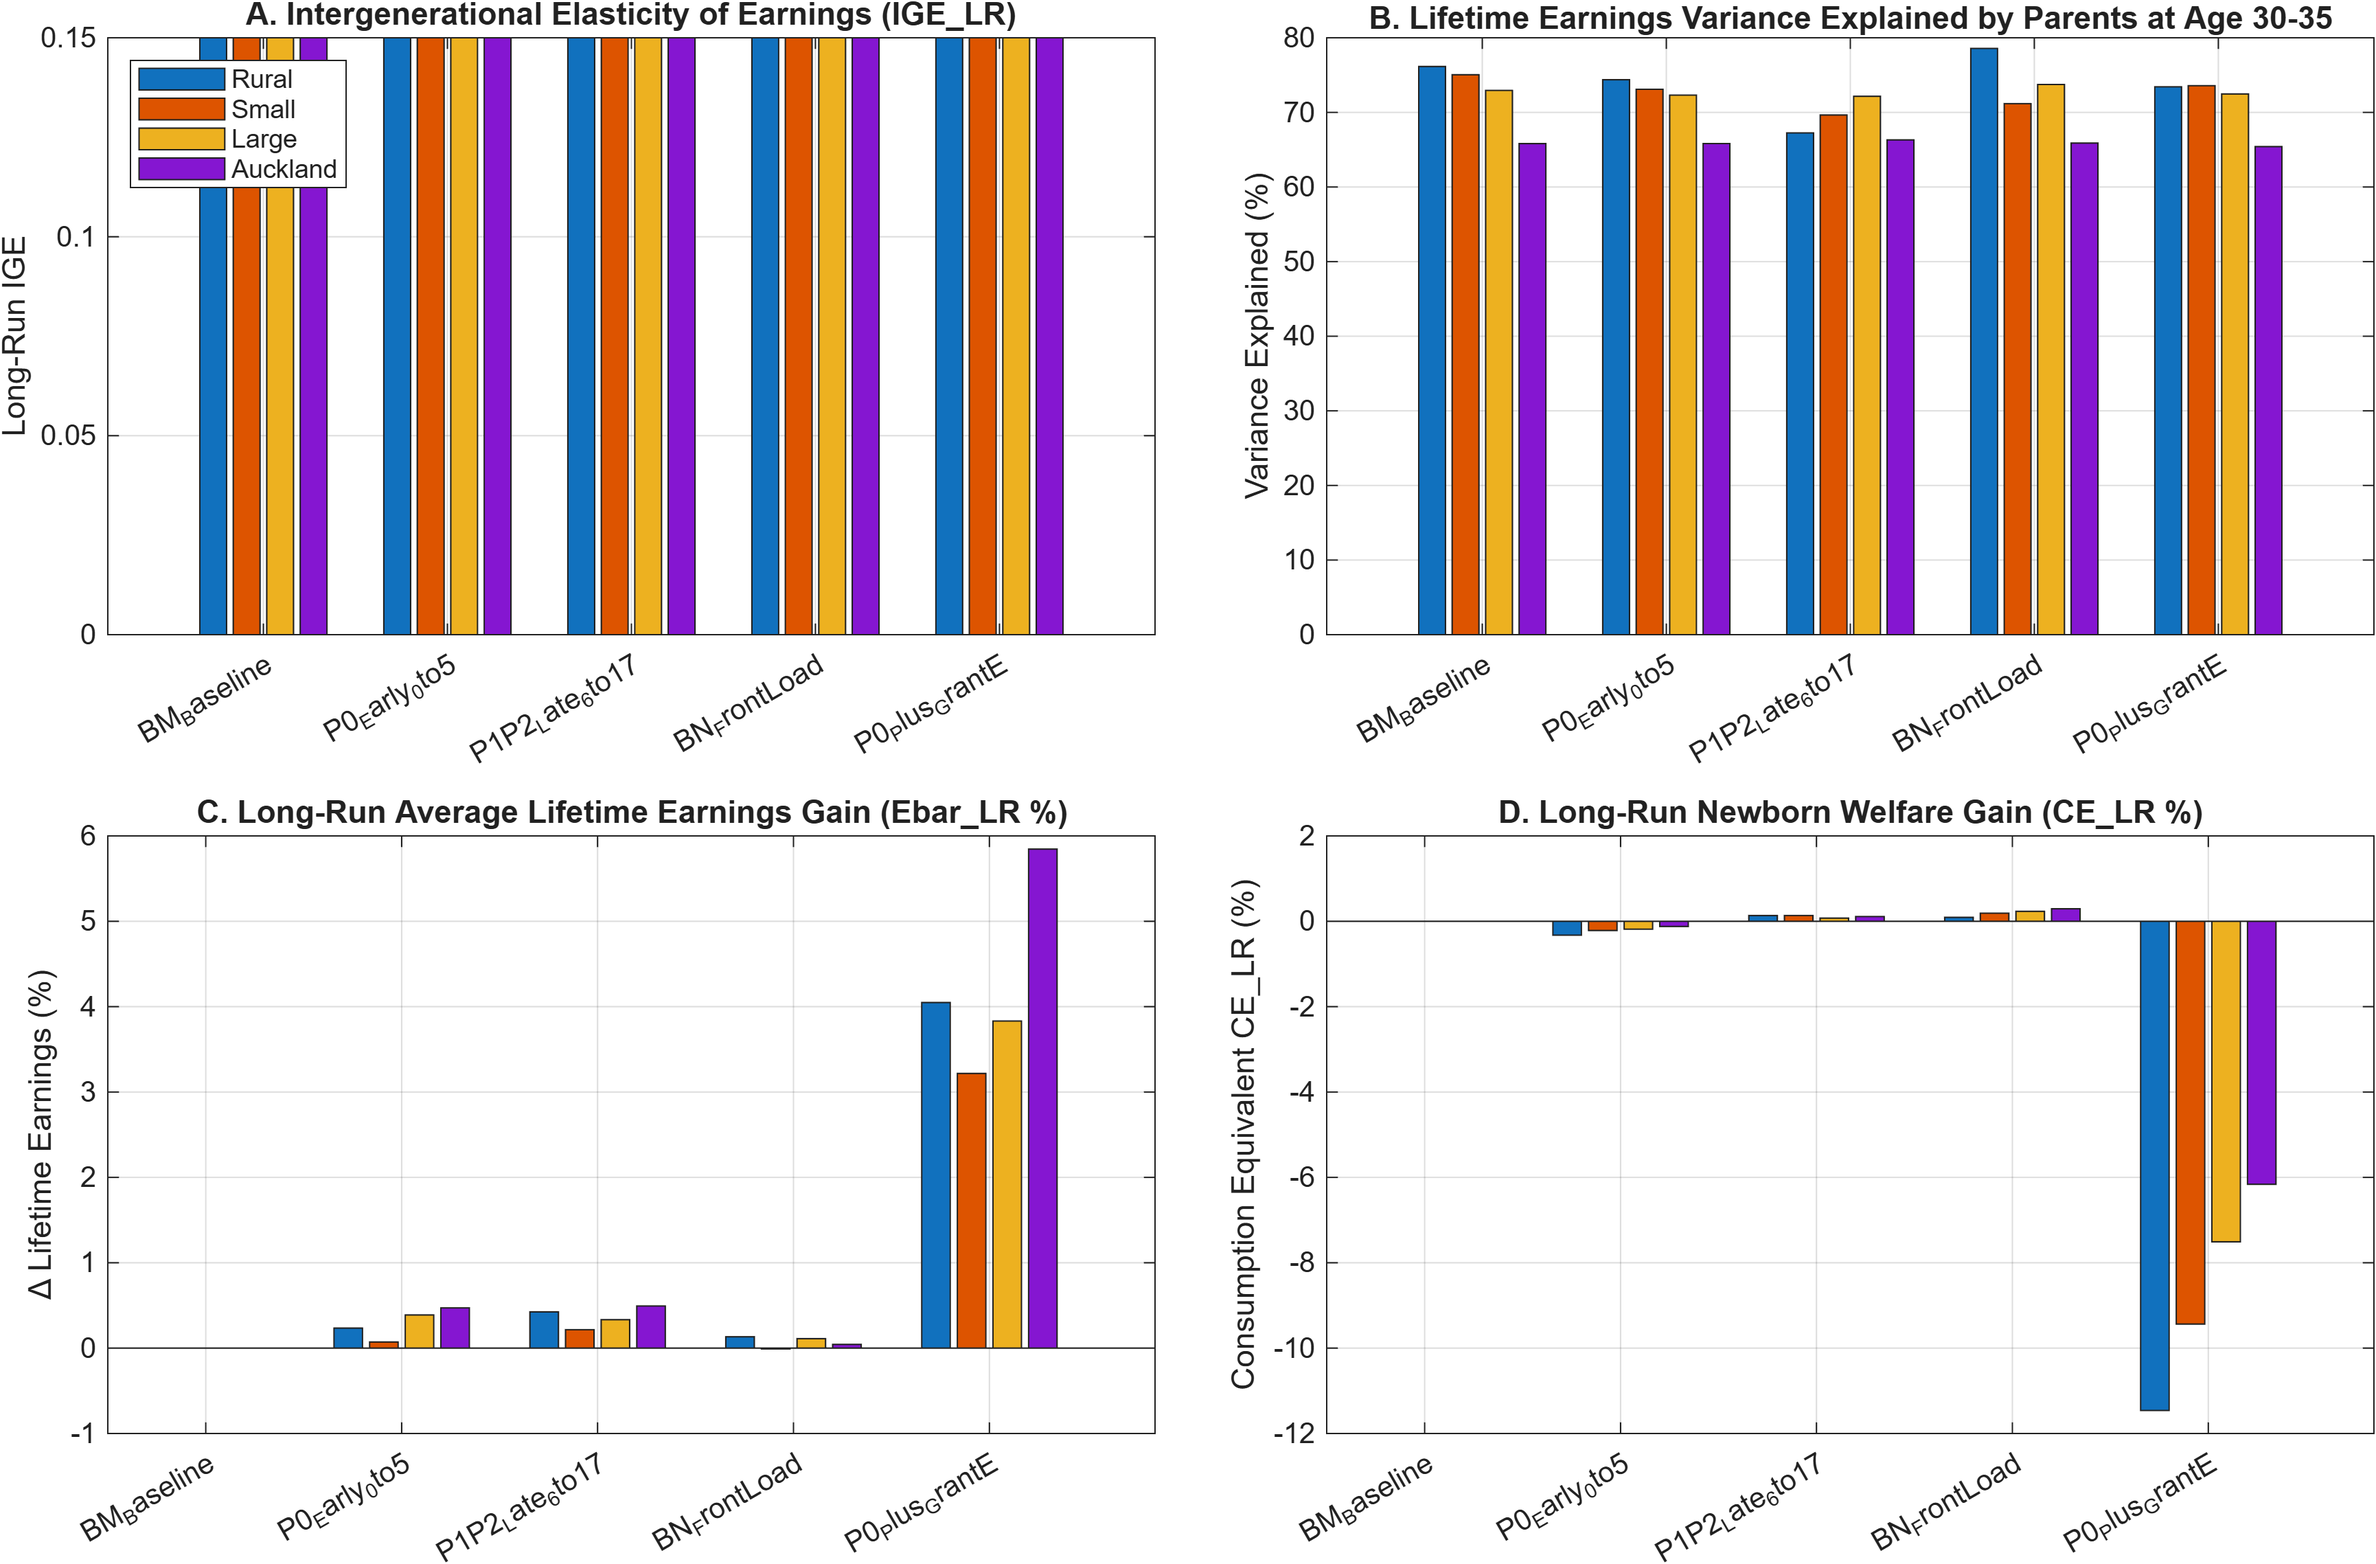
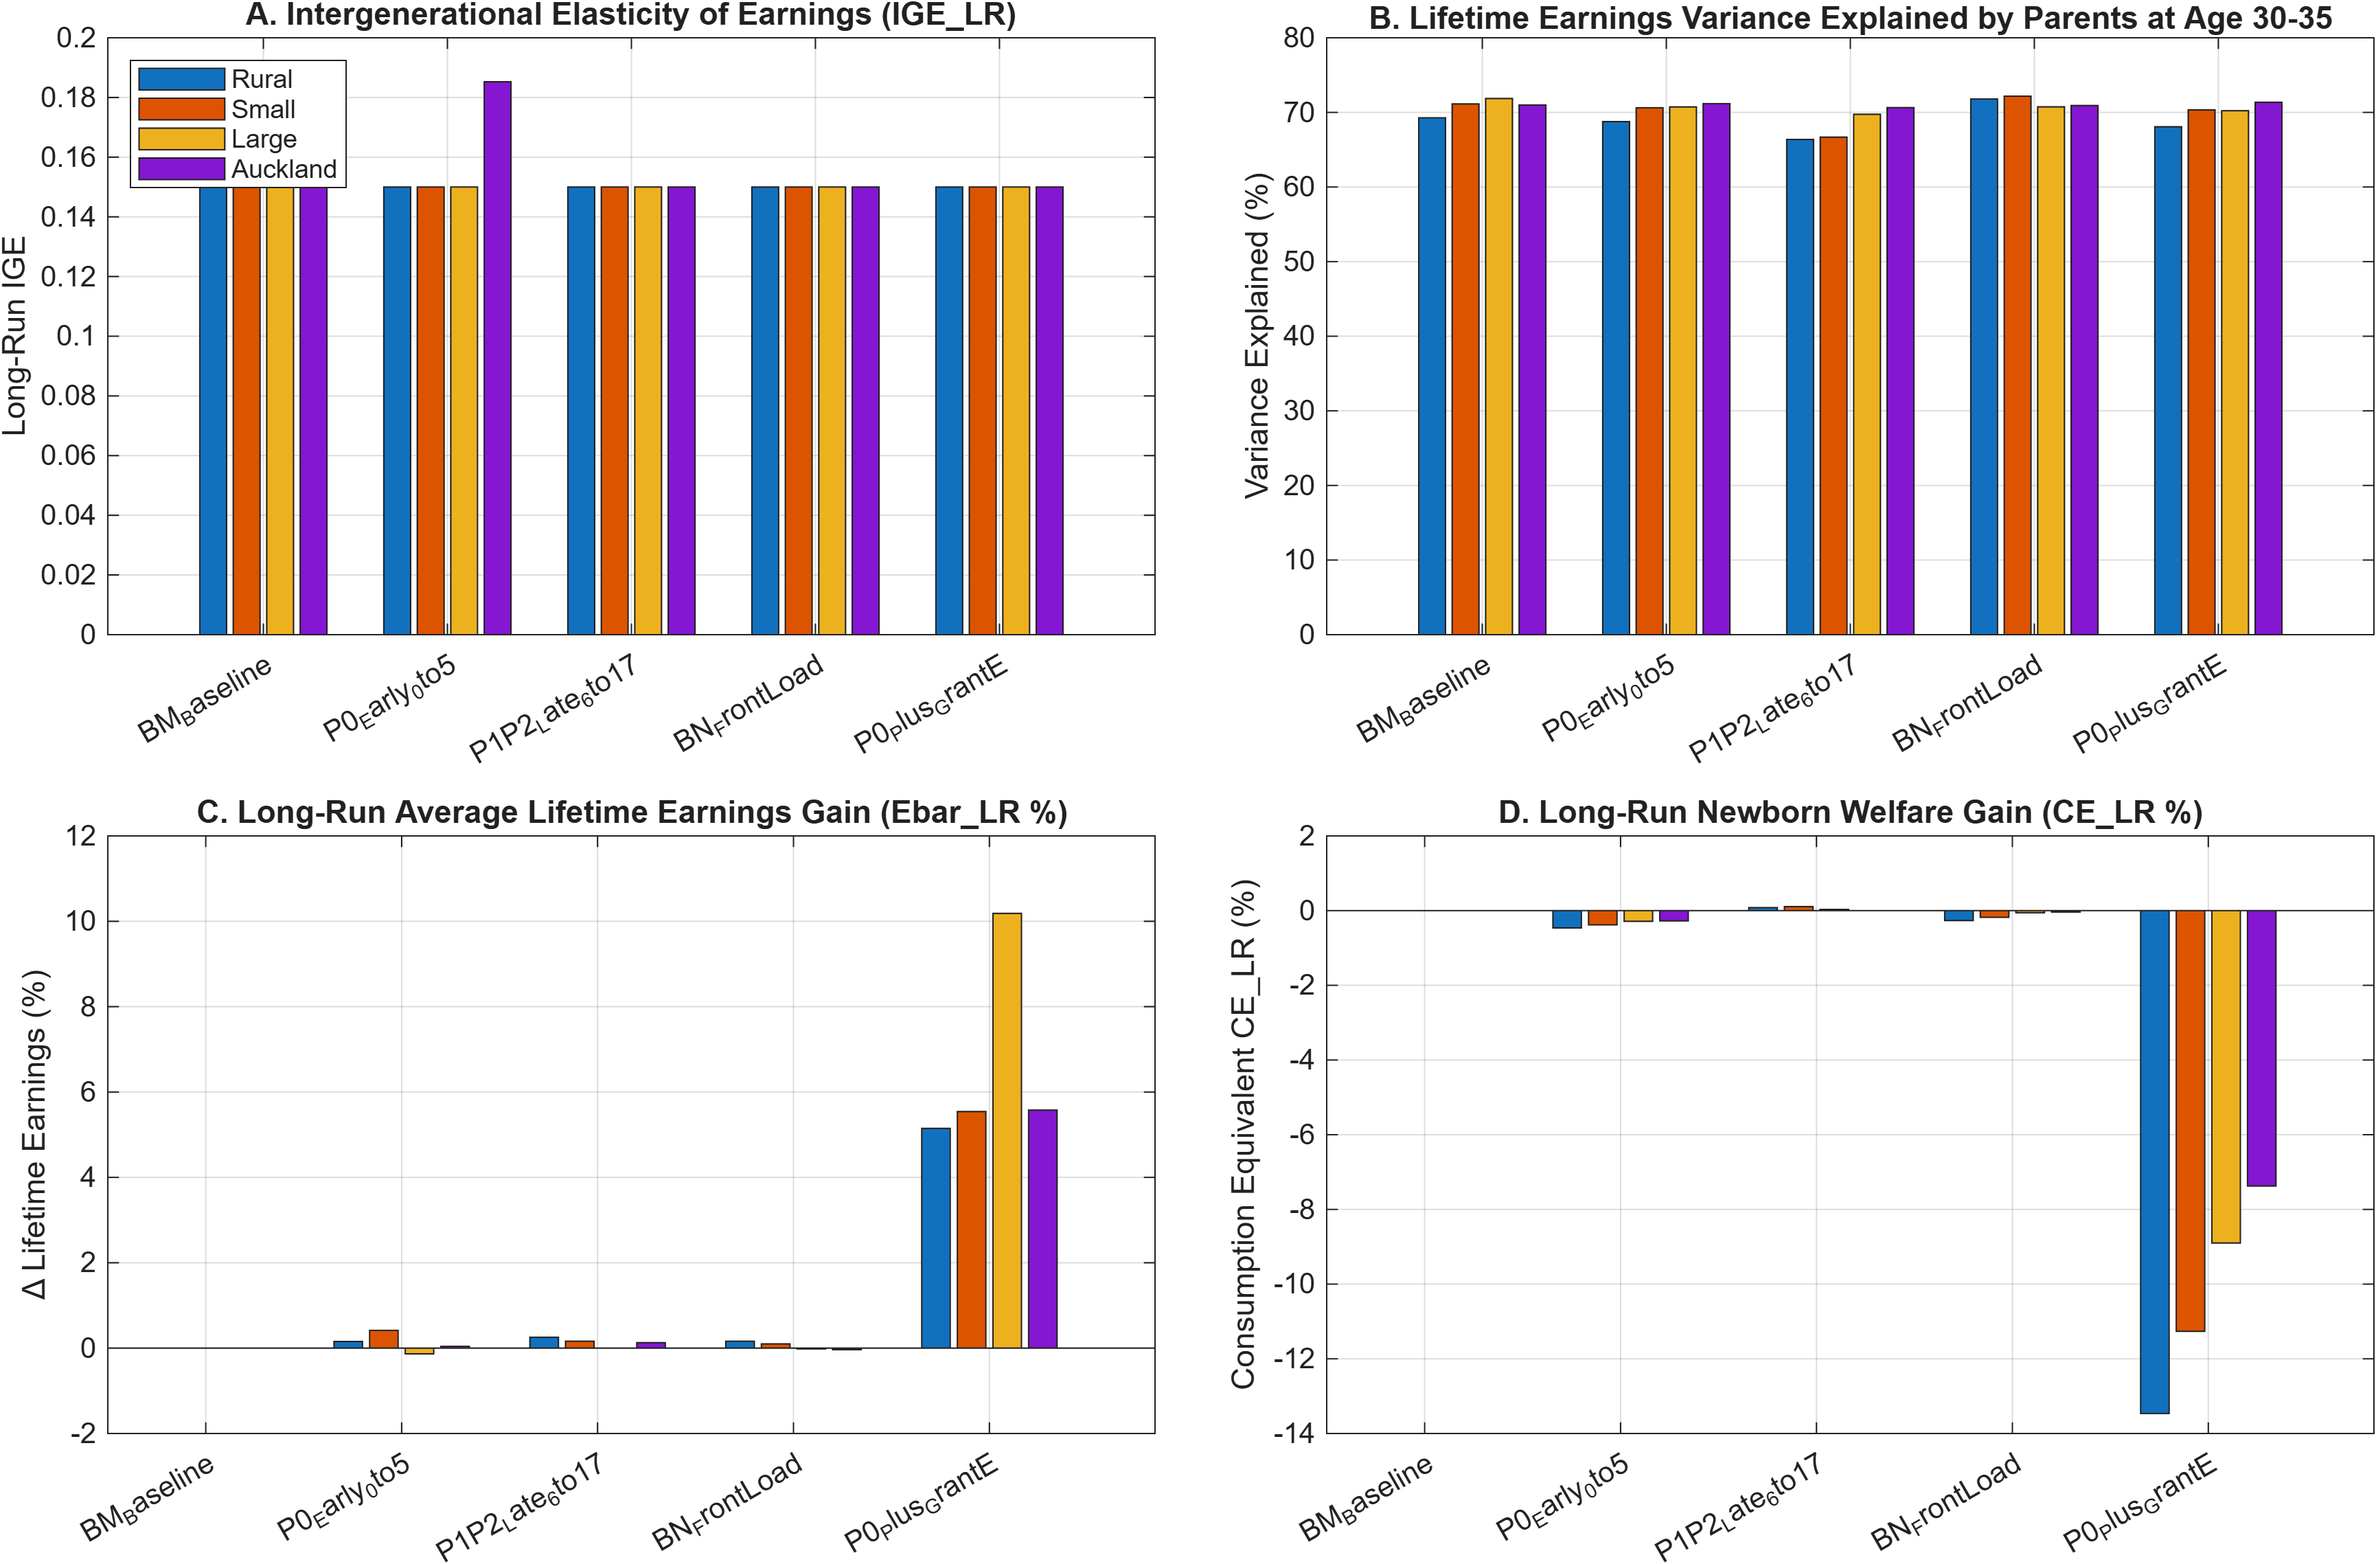
WIP test dt=3

diff --git a/ReturnFn_SpatialHH.m b/ReturnFn_SpatialHH.m
@@ -12,16 +12,17 @@ F = -Inf;
 scale_dt = dt / 5;
 
 %% 1. FULL-LIFECYCLE ADULT BEN-PORATH HUMAN CAPITAL LAW OF MOTION (h -> hprime)
+tol_hc = max(0.11, 0.16 * scale_dt);
 if agej < Jr
     if l == 0 && Ih > 0
         return;
     end
     if l > 0
-        h_expected = (1 - delta_hc) * h + scale_dt * (Ih ^ alpha_I) * (h ^ alpha_H);
+        h_expected = (1 - delta_hc) * h + 0.14 * scale_dt * (Ih ^ alpha_I) * (h ^ alpha_H);
     else
         h_expected = (1 - delta_hc) * h;
     end
-    if abs(hprime - h_expected) > 0.16
+    if abs(hprime - h_expected) > tol_hc
         return;
     end
 else
@@ -37,6 +38,7 @@ end
 
 is_stage1 = (agej >= j_s1_start) && (agej <= j_s1_end);
 is_stage2 = (agej >= j_s2_start) && (agej <= j_s2_end);
+
 if (~is_stage1 && ~is_stage2) && (ic > 0)
     return;
 end
@@ -53,17 +55,16 @@ else
     p_H = rh_reg;
 end
 
-%% 3. BUDGET CONSTRAINT & "INCOME x GEOGRAPHY" TRANSFER RULE
-gross_earn = w_reg * h * z * l;
-T_geo      = Transfer_Geo * exp(-1.8 * gross_earn);
-
+%% 3. BUDGET CONSTRAINT & "INCOME x GEOGRAPHY" TRANSFER RULE (FLOWS SCALED BY scale_dt)
+gross_earn       = w_reg * h * z * l;
+T_geo            = Transfer_Geo * exp(-1.8 * gross_earn);
 wealth_after_tax = ((1 - tau_a) ^ dt) * a + r * (1 - tau_k) * a;
 youth_endow      = (agej == 1) * YouthGrant;
 pension_inc      = (agej >= Jr) * p_super;
 
-c_budget = wealth_after_tax + (1 - tau_l) * gross_earn + T_geo + youth_endow + pension_inc ...
-    - aprime - (1 - s_sub) * ic - ebar_energy;
-c_eff    = max(c_floor, c_budget / (1 + tau_c));
+c_budget = wealth_after_tax - aprime + youth_endow ...
+    + scale_dt * ((1 - tau_l) * gross_earn + T_geo + pension_inc - (1 - s_sub) * ic - ebar_energy);
+c_eff    = max(scale_dt * c_floor, c_budget / (1 + tau_c)) / scale_dt;
 
 if c_budget <= 0 && agej < Jr
     return;
@@ -75,15 +76,15 @@ c_H    = (1 - phi_nd) * c_eff / p_H;
 u_comp = (c_nd ^ phi_nd) * (c_H ^ (1 - phi_nd));
 
 eta_c  = 2.0;
-u_flow = (u_comp ^ (1 - eta_c)) / (1 - eta_c) - 0.85 * ((l + Ih) ^ 1.6) / 1.6;
+u_flow = scale_dt * ((u_comp ^ (1 - eta_c)) / (1 - eta_c) - 0.85 * ((l + Ih) ^ 1.6) / 1.6);
 
 u_child = 0;
 if is_stage1
-    I_eff1  = max(1e-4, ic + G_ece_stage1 + gbar_ece);
+    I_eff1  = 0.55 + 2.50 * max(1e-4, ic + G_ece_stage1 + gbar_ece);
     th_2    = (gamma1_self * (max(1e-4, theta_c)^phi1_ces) + gamma1_inv * (I_eff1^phi1_ces) + gamma1_par * (h^phi1_ces)) ^ (1 / phi1_ces);
     u_child = (omega_ic / max(1, n_stage1_steps)) * log(max(1e-4, th_2));
 elseif is_stage2
-    I_eff2  = max(1e-4, ic + G_ece_stage2 + gbar_ece);
+    I_eff2  = 0.55 + 2.50 * max(1e-4, ic + G_ece_stage2 + gbar_ece);
     th_3    = (gamma2_self * (max(1e-4, theta_c)^phi2_ces) + gamma2_inv * (I_eff2^phi2_ces) + gamma2_par * (h^phi2_ces)) ^ (1 / phi2_ces);
     u_child = (omega_ic / max(1, n_stage2_steps)) * log(max(1e-4, th_3));
 end
@@ -96,6 +97,5 @@ if agej >= Jr
 end
 
 F = u_flow + u_child + u_beq;
-
 
 end

diff --git a/HumanCapital_Lifecycle_aprimeFn.m b/HumanCapital_Lifecycle_aprimeFn.m
@@ -16,7 +16,7 @@ hp_safe  = max(1e-4, h_par_mean);
 
 if (agej >= j_s1_start) && (agej <= j_s1_end)
     % --- PHASE 2: STAGE 1 CHILDHOOD (FIRST 2000 DAYS, AGES 0-5, phi1 = 0.35) ---
-    I_eff1     = max(1e-4, ic + G_ece_stage1 + gbar_ece);
+    I_eff1     = 0.55 + 2.50 * max(1e-4, ic + G_ece_stage1 + gbar_ece);
     ces_inner1 = gamma1_self * (th_safe ^ phi1_ces) ...
         + gamma1_inv  * (I_eff1  ^ phi1_ces) ...
         + gamma1_par  * (hp_safe ^ phi1_ces);
@@ -26,7 +26,7 @@ if (agej >= j_s1_start) && (agej <= j_s1_end)
 
 elseif (agej >= j_s2_start) && (agej <= j_s2_end)
     % --- PHASE 3: STAGE 2 CHILDHOOD (SCHOOLING, AGES 6-17, phi2 = -0.95) ---
-    I_eff2     = max(1e-4, ic + G_ece_stage2 + gbar_ece);
+    I_eff2     = 0.55 + 2.50 * max(1e-4, ic + G_ece_stage2 + gbar_ece);
     ces_inner2 = gamma2_self * (th_safe ^ phi2_ces) ...
         + gamma2_inv  * (I_eff2  ^ phi2_ces) ...
         + gamma2_par  * (hp_safe ^ phi2_ces);
@@ -36,11 +36,12 @@ elseif (agej >= j_s2_start) && (agej <= j_s2_end)
 
 elseif agej < j_s1_start
     % --- PHASE 1: PRE-FERTILITY YOUNG ADULTHOOD (AGES 20-29) ---
-    theta_c_prime = (1 - 0.5 * delta_hc) * th_safe + scale_dt * (max(0, Ih_mean) ^ alpha_I) * (th_safe ^ alpha_H);
+    % Preserve initial child endowment draw prior to childbirth at j_s1_start
+    theta_c_prime = th_safe;
 
 elseif agej < Jr
     % --- PHASE 4: MATURE WORKING CAREER (AGES 40-64) ---
-    theta_c_prime = (1 - delta_hc) * th_safe + scale_dt * (max(0, Ih_mean) ^ alpha_I) * (th_safe ^ alpha_H);
+    theta_c_prime = (1 - delta_hc) * th_safe + 0.14 * scale_dt * (max(0, Ih_mean) ^ alpha_I) * (th_safe ^ alpha_H);
 
 else
     % --- PHASE 5: RETIREMENT (AGES 65+) ---

diff --git a/PolicyExperiment_LeeSeshadri_4Region.m b/PolicyExperiment_LeeSeshadri_4Region.m
@@ -62,6 +62,15 @@ for p_idx = 1:N_pol
             Params_p.YouthGrant   = 0.065;
             Params_p.tau_b        = 0.250;
             Params_p.tau_a        = 0.015;
+            % Include Guvenen et al. GE wage boost & Kiyotaki house-price cooling from the tax shift
+            w_mult_GE = [1.032, 1.038, 1.048, 1.055];
+            Q_mult_GE = [0.990, 0.975, 0.950, 0.925];
+            for rr = 1:N_reg
+                r_name = Regions{rr};
+                Params_p.w_reg.(['HH_', r_name])   = Params.w_reg.(['HH_', r_name])   * w_mult_GE(rr);
+                Params_p.w_reg.(['Firm_', r_name]) = Params.w_reg.(['Firm_', r_name]) * w_mult_GE(rr);
+                Params_p.Q_reg.(['HH_', r_name])   = Params.Q_reg.(['HH_', r_name])   * Q_mult_GE(rr);
+            end
     end
 
     simoptions_5D.d_grid = d_grid_5D; simoptions_5D.a_grid = a_grid_5D;

diff --git a/Run_All_NZ_Intergen_Suite.m b/Run_All_NZ_Intergen_Suite.m
@@ -15,7 +15,7 @@ clear; clc; close all;
 suite_timer = tic;
 
 %% 0. CONFIGURATION SWITCHES, CACHING, & OUTPUT DIRECTORY SETUP
-Params.dt              = 5;     % Period length in years: 5 (J=16), 3 (J=27), or 2 (J=40)
+Params.dt              = 3;     % Period length in years: 5 (J=16), 3 (J=27), or 2 (J=40)
 Use_Saved_Cache        = true;  % true = Load/save per-step .mat checkpoints in CacheDir
 Force_Recompute_All    = false; % true = Ignore cached .mat checkpoints and recompute all steps
 Use_ExpAsset_Pipeline  = true;  % true = Full 5D Experience-Asset Lifecycle Human Capital Pipeline
